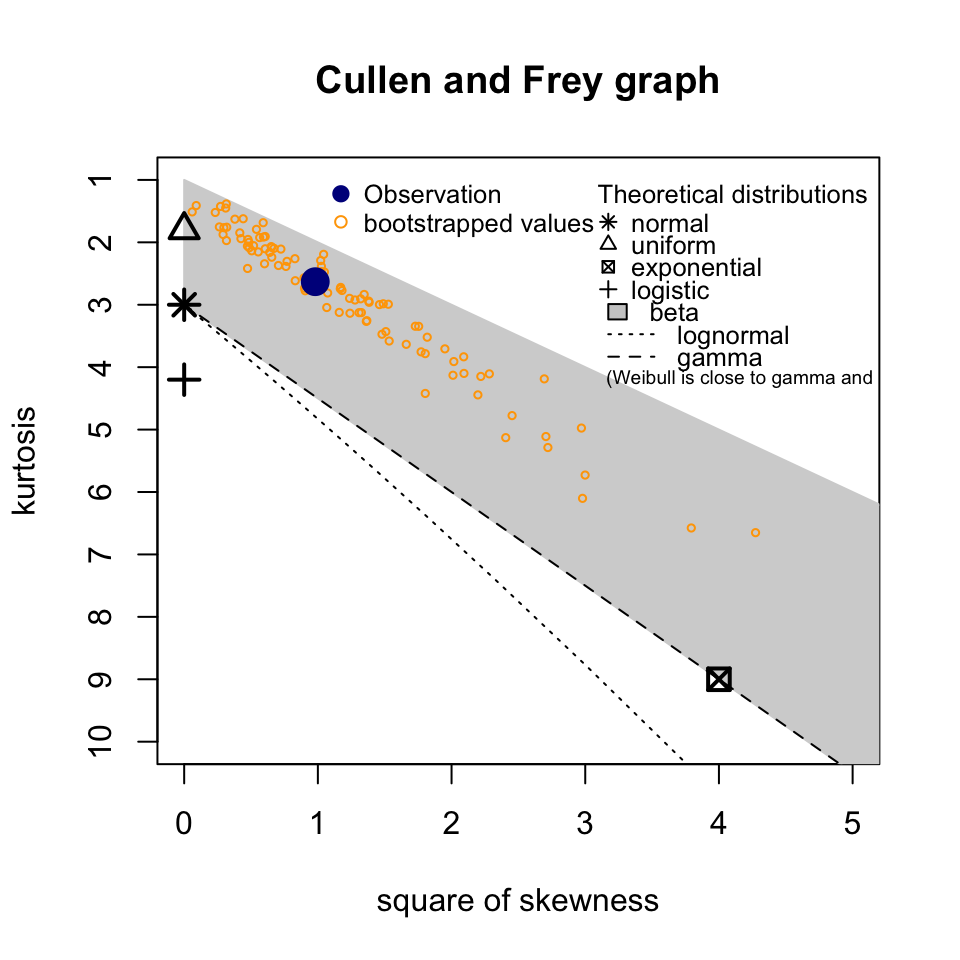
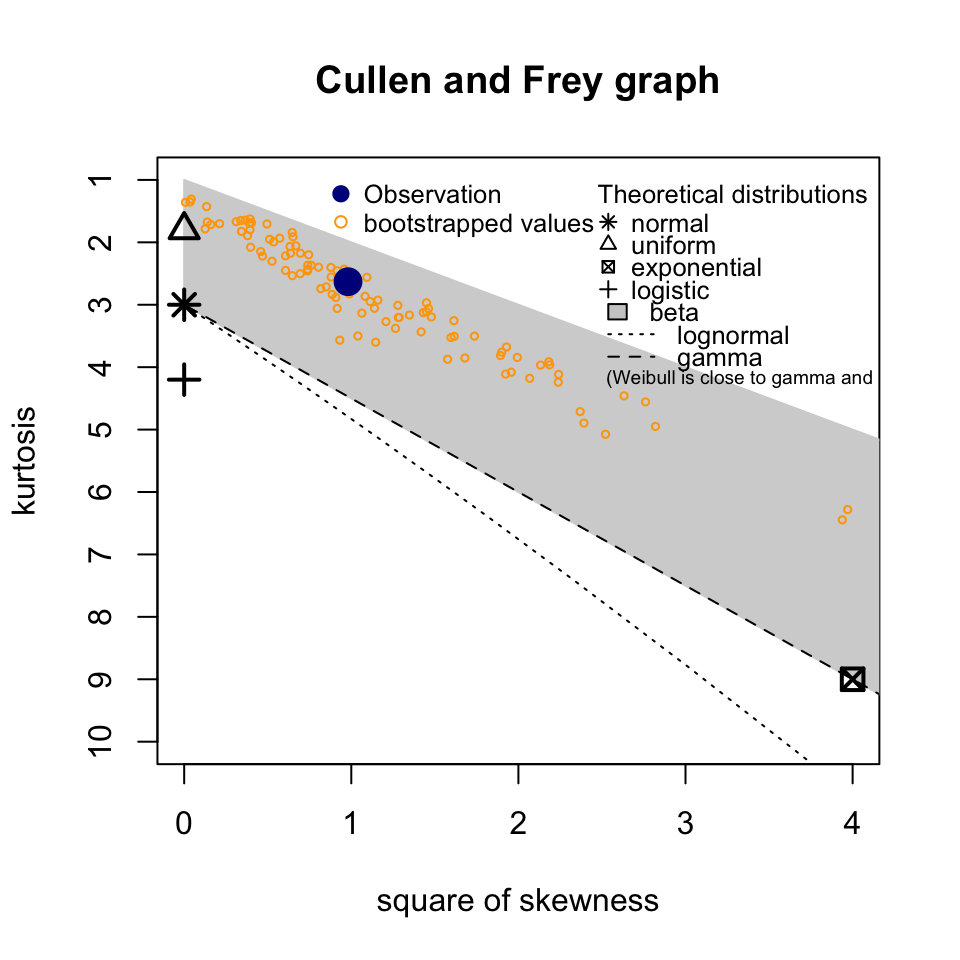
update docs

diff --git a/docs/articles/faqs.html b/docs/articles/faqs.html
@@ -101,7 +101,7 @@
       <h1>Frequently Asked Questions</h1>
                         <h4 class="author">ssdtools Team</h4>
             
-            <h4 class="date">2019-12-04</h4>
+            <h4 class="date">2019-12-05</h4>
       
       <small class="dont-index">Source: <a href="https://github.com/bcgov/ssdtools/blob/master/vignettes/faqs.Rmd"><code>vignettes/faqs.Rmd</code></a></small>
       <div class="hidden name"><code>faqs.Rmd</code></div>
@@ -137,7 +137,8 @@
 <h3 class="hasAnchor">
 <a href="#how-do-i-plot-a-cullen-frey-plot" class="anchor"></a>How do I plot a Cullen Frey plot?</h3>
 <p>The data can be visualized using a Cullen Frey plot of the skewness and kurtosis.</p>
-<div class="sourceCode" id="cb4"><pre class="sourceCode r"><code class="sourceCode r"><span id="cb4-1"><a href="#cb4-1"></a><span class="kw"><a href="../reference/ssd_plot_cf.html">ssd_plot_cf</a></span>(boron_data)</span></code></pre></div>
+<div class="sourceCode" id="cb4"><pre class="sourceCode r"><code class="sourceCode r"><span id="cb4-1"><a href="#cb4-1"></a><span class="kw"><a href="https://rdrr.io/r/base/Random.html">set.seed</a></span>(<span class="dv">10</span>)</span>
+<span id="cb4-2"><a href="#cb4-2"></a><span class="kw"><a href="../reference/ssd_plot_cf.html">ssd_plot_cf</a></span>(boron_data)</span></code></pre></div>
 <p><img src="faqs_files/figure-html/unnamed-chunk-5-1.png" width="480"></p>
 </div>
 </div>

diff --git a/docs/articles/exposure-plots.html b/docs/articles/exposure-plots.html
@@ -101,7 +101,7 @@
       <h1>Embellishing Plots with an Exposure Distribution</h1>
                         <h4 class="author">ssdtools Team</h4>
             
-            <h4 class="date">2019-12-04</h4>
+            <h4 class="date">2019-12-05</h4>
       
       <small class="dont-index">Source: <a href="https://github.com/bcgov/ssdtools/blob/master/vignettes/exposure-plots.Rmd"><code>vignettes/exposure-plots.Rmd</code></a></small>
       <div class="hidden name"><code>exposure-plots.Rmd</code></div>

diff --git a/docs/articles/distributions.html b/docs/articles/distributions.html
@@ -101,7 +101,7 @@
       <h1>Distributions</h1>
                         <h4 class="author">ssdtools Team</h4>
             
-            <h4 class="date">2019-12-04</h4>
+            <h4 class="date">2019-12-05</h4>
       
       <small class="dont-index">Source: <a href="https://github.com/bcgov/ssdtools/blob/master/vignettes/distributions.Rmd"><code>vignettes/distributions.Rmd</code></a></small>
       <div class="hidden name"><code>distributions.Rmd</code></div>

diff --git a/docs/articles/ssdtools.html b/docs/articles/ssdtools.html
@@ -101,7 +101,7 @@
       <h1>Get Started with ssdtools</h1>
                         <h4 class="author">ssdtools Team</h4>
             
-            <h4 class="date">2019-12-04</h4>
+            <h4 class="date">2019-12-05</h4>
       
       <small class="dont-index">Source: <a href="https://github.com/bcgov/ssdtools/blob/master/vignettes/ssdtools.Rmd"><code>vignettes/ssdtools.Rmd</code></a></small>
       <div class="hidden name"><code>ssdtools.Rmd</code></div>
